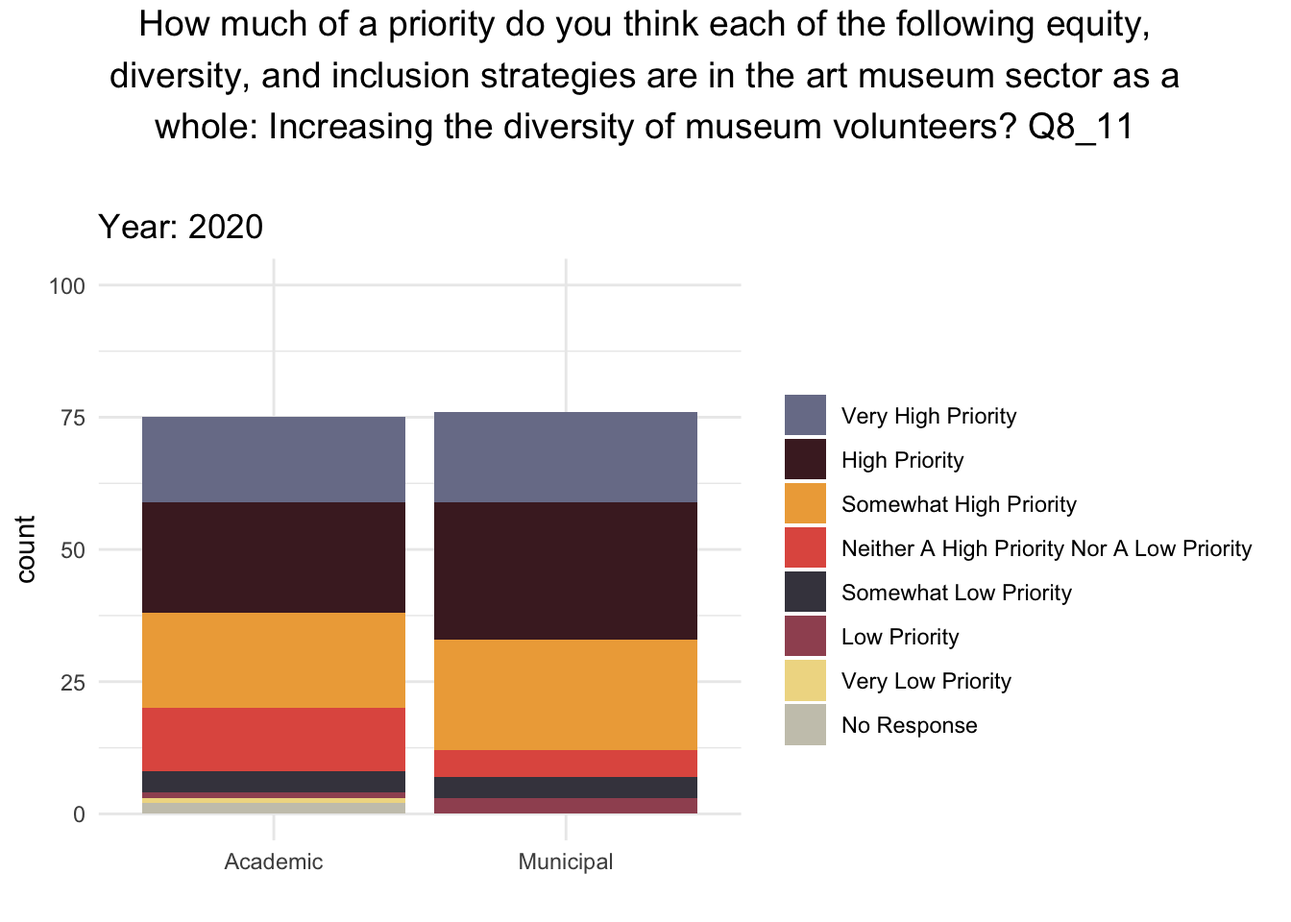
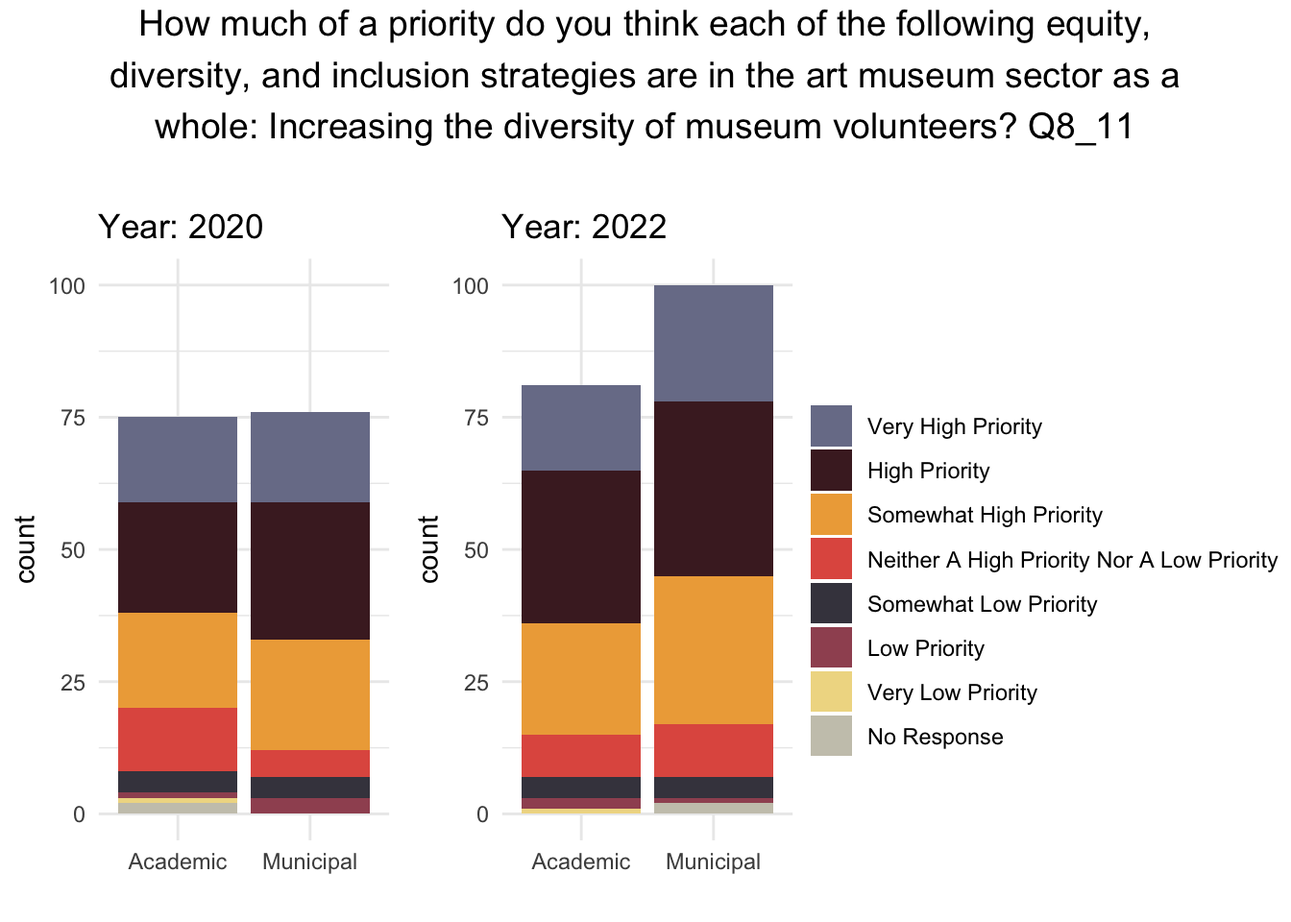
reformatting diversity plots--done now!

Changed region(s): [[0.0938, 0.2812, 1.0, 0.9688], [0.375, 0.2188, 0.5312, 0.2812], [0.3438, 0.2812, 0.375, 0.3125]]

diff --git a/docs/index.html b/docs/index.html
@@ -177,8 +177,8 @@ ul.task-list li input[type="checkbox"] {
 <h2 class="anchored" data-anchor-id="pca-analysis">PCA Analysis</h2>
 <div class="cell">
 <div class="cell-output-display">
-<div class="plotly html-widget html-fill-item" id="htmlwidget-5ad0f17f137d58f8f060" style="width:100%;height:464px;"></div>
-<script type="application/json" data-for="htmlwidget-5ad0f17f137d58f8f060">{"x":{"visdat":{"1668614c384fd":["function () ","plotlyVisDat"]},"cur_data":"1668614c384fd","attrs":{"1668614c384fd":{"x":{},"y":{},"mode":"markers","text":{},"hoverinfo":"text","marker":{"size":8,"opacity":1},"color":{},"colors":["#797d97","#cac7b9","#eeaa46","#4a2329","#e15b4f"],"alpha_stroke":1,"sizes":[10,100],"spans":[1,20],"type":"scatter"}},"layout":{"margin":{"b":40,"l":60,"t":25,"r":10},"title":{"text":"K-means Clustering on PCA Data","x":0.5,"xanchor":"center"},"xaxis":{"domain":[0,1],"automargin":true,"title":"PC1"},"yaxis":{"domain":[0,1],"automargin":true,"title":"PC2"},"legend":{"title":{"text":"Cluster"}},"hovermode":"closest","showlegend":true},"source":"A","config":{"modeBarButtonsToAdd":["hoverclosest","hovercompare"],"showSendToCloud":false},"data":[{"x":[1.9519669837468396,-0.34672951718763817,0.22867006025165865,1.3888820103977106,0.47893667713665039,-1.631635860011462,-0.23826189879536919,1.7821228840170011,-0.97540665248346758,0.43477365454045086,2.160290840545215,-0.12589699749730354,-2.0514690662157857,-0.69271084928894133,-0.068169590592236234,-2.3881764453225331,2.1763523705102252,-0.065012002914332678,0.32602127385675356,3.437594664475367,-0.28499385232099256,-0.9122061091808028,0.074477843692339549,0.63390348869985835,-0.89777349502524684,-1.3519287396442732,-0.90387715832019733,-1.2792696953575686,-0.4369157120150301,-1.7109417169914398,-0.10007386880636844,-0.091989849829529624,2.6369183552493745,1.1725482239351928,-0.69396323107238767,1.4287335118836426,-0.60716534530529787,-0.32965242105236542,0.32949752569067636,2.8887351896864009,0.35685268391167402,-1.1295295054848664,0.26081706879333483,0.22246898972410081,0.36382815139855468,-1.1462573944378258,0.037824082915974305,3.4115729823049752,-0.36310628756894542,-0.27873022883722676,-0.50642636824388443,0.28927361697365117],"y":[0.74742248445268256,1.4923206735003918,-0.91994422985294366,3.1197753494483136,1.3563185471339476,1.4986680541491204,1.9751080037334505,4.77139878841552,1.2498877044502206,0.64590801815596155,1.0575477025993407,0.3339151163710129,2.2032565462158553,2.9055073051589368,2.4713991288270067,1.7103967990660469,-0.46731120591713521,1.5334757821619649,1.5915025086749186,2.8938583623320011,1.6591684070258959,1.3967819693094785,1.8957491135744093,1.5364525945811942,-0.19531674983572078,0.71492746940552376,0.45617756909781149,1.8604530764820331,-0.50062351450272213,2.2427034978695932,2.5159168567193375,1.0522068061122356,3.1871480096704734,1.8801807717495747,2.0313770856793325,-0.2536495990129643,2.4221765278348339,1.1011719061949869,0.58359560011381717,3.2403459683341564,1.7152748639709736,0.92559545440133328,-1.0269779144760685,0.77964300334143,-0.74888213266847481,2.4563046566471942,1.5346750032688712,-0.25404765414689651,0.92368359384659926,0.5691870155792077,2.4821447731618269,2.1923072976478184],"mode":"markers","text":["ID: 3","ID: 7","ID: 11","ID: 12","ID: 16","ID: 17","ID: 20","ID: 23","ID: 24","ID: 30","ID: 33","ID: 38","ID: 42","ID: 45","ID: 48","ID: 55","ID: 58","ID: 62","ID: 65","ID: 66","ID: 71","ID: 73","ID: 75","ID: 80","ID: 84","ID: 87","ID: 94","ID: 95","ID: 97","ID: 99","ID: 100","ID: 104","ID: 107","ID: 108","ID: 111","ID: 112","ID: 115","ID: 117","ID: 118","ID: 119","ID: 124","ID: 136","ID: 140","ID: 141","ID: 145","ID: 147","ID: 152","ID: 153","ID: 156","ID: 164","ID: 177","ID: 180"],"hoverinfo":["text","text","text","text","text","text","text","text","text","text","text","text","text","text","text","text","text","text","text","text","text","text","text","text","text","text","text","text","text","text","text","text","text","text","text","text","text","text","text","text","text","text","text","text","text","text","text","text","text","text","text","text"],"marker":{"color":"rgba(121,125,151,1)","size":8,"opacity":1,"line":{"color":"rgba(121,125,151,1)"}},"type":"scatter","name":"1","textfont":{"color":"rgba(121,125,151,1)"},"error_y":{"color":"rgba(121,125,151,1)"},"error_x":{"color":"rgba(121,125,151,1)"},"line":{"color":"rgba(121,125,151,1)"},"xaxis":"x","yaxis":"y","frame":null},{"x":[0.60682477478487129,6.1597867816673402,1.532663615823159,3.0978107885122808,0.58843221608168239,1.8690412169865966,3.0922685676825816,2.5168266203129996,2.6313916515447482,4.2403480676353658,1.8139872130918999,0.94840825309821131,1.5654531888479541,2.112213335350738,4.1245700640749918,3.0825129371414914,2.2467584163499281,3.5344603739358784,3.2261037507716392,2.1057639031538327,2.6500963220426144,4.8721535818249606,2.6622738114152091,0.81339145011294589,2.7964904117546565,4.1246536581682482,4.1836676006554141,0.30014729274505042,2.7717771628469263,0.58084851640149404,3.4339591995878664,4.2260627644449,2.3872611026572343,0.77221224279213441,2.2688316160123705,4.2083435790701165,5.690526745241586],"y":[-1.2225237785036751,0.55363798306489576,2.5476962680762529,0.29339380693869616,0.30209182752737057,1.9165592140780907,0.49216222288222949,0.16805808198645539,-0.98658713167495404,1.0376886209793783,-1.9585949810558561,-0.78212881134347267,-0.65059269623512328,2.0418831621150009,-0.82151407967461287,0.72688250911641217,0.73220878711965565,1.1978604930971897,-0.33351565117700038,-0.072222832856582167,0.026473239561696216,0.093296771440084747,3.534625474176702,-0.51274377935091042,2.3142178458517551,1.1617312233105939,1.7300903884604659,-2.2231539445518695,-1.0090921479835422,0.27514425422446981,0.51534682906617713,0.582440976000972,1.7596722095429247,-1.6409742912704808,-0.51255394221134809,-1.4800675849099341,-0.24475176452356712],"mode":"markers","text":["ID: 1","ID: 6","ID: 9","ID: 10","ID: 22","ID: 34","ID: 39","ID: 44","ID: 46","ID: 52","ID: 59","ID: 68","ID: 74","ID: 76","ID: 79","ID: 81","ID: 85","ID: 92","ID: 101","ID: 103","ID: 109","ID: 110","ID: 116","ID: 121","ID: 128","ID: 138","ID: 139","ID: 142","ID: 144","ID: 148","ID: 150","ID: 151","ID: 155","ID: 158","ID: 159","ID: 169","ID: 179"],"hoverinfo":["text","text","text","text","text","text","text","text","text","text","text","text","text","text","text","text","text","text","text","text","text","text","text","text","text","text","text","text","text","text","text","text","text","text","text","text","text"],"marker":{"color":"rgba(202,199,185,1)","size":8,"opacity":1,"line":{"color":"rgba(202,199,185,1)"}},"type":"scatter","name":"2","textfont":{"color":"rgba(202,199,185,1)"},"error_y":{"color":"rgba(202,199,185,1)"},"error_x":{"color":"rgba(202,199,185,1)"},"line":{"color":"rgba(202,199,185,1)"},"xaxis":"x","yaxis":"y","frame":null},{"x":[-1.9711354743872325,-2.8562465749176575,-1.3012404373382547,-3.9282068407720585,-2.4572609348505394,-0.41490370784447245,-2.3037049767447551,0.11167601376614701,-1.760023185741777,-2.2329260352352764,-1.4794932678662605,-0.13318880655564569,-2.078356852251463,-0.75401512915603652,-3.2463436240978365,-1.9735038918329351,-0.54359791315650541,-3.6654743046885216,-0.93545164690782523,-1.2586946029741692,-4.0345116483095049,-4.3531040311024771,-3.8099021901159515,-1.1286545172884521,-0.6698549781348333,-4.2427427846927683,-4.3972320124075459,-2.4402202605496708,-2.487644318234731,-1.8082573299007163,-2.3687772238097122,-1.8031036081651521,-3.101168181134212,-2.1750493754392393,-1.4365999897759718,-4.1879558508134771,-2.5431375564136078,-1.8004581961732331,-0.55824876335040252,-4.2015917254672255,-3.5348872527911737,-2.8800899011774037,-2.0448290605570087,-1.2362472347285249,-1.8514176291997324,-1.0353740395819702,-1.2654742396344014,-4.027872156557839,-1.2133731653794202,-3.1978398370421246,-3.6398809629574918,-2.8147929559339042,-2.9223886410009188,-1.3506553313651235,-2.5281001026765018,-1.1971135767043795,-0.69186877082572551,-4.2478833001426617,-0.69734874467912522,-3.4941816658703213,-2.6950982010034275,-2.0423278213978517,-2.1570975299989557,-3.3740683280048995,-1.6399622512406147,0.51575583918526957,-0.28085602994846037,-2.4798927484412556,-0.76409996046896278,-1.9731463979193162,-2.2233790652234005,-0.19624099632028247,-2.3346762238373682,-1.5801727513662776,-0.9355998536474075,-2.0377804193188185,-0.8712673419493332,-1.9948283541255027,-2.9106341069528043,-4.7746349863726056,-0.58997120071491027,-0.041479668581613643],"y":[-0.57787056101989032,1.8911502444085913,-1.5696700115834028,-1.3865068994909828,1.465299169040563,-1.5360828697174282,-0.11913156402608727,-1.4299705361381148,0.8494690983219052,-2.1085538409099498,-1.7382303271157564,-1.5581156430714149,0.73027867433345639,-3.0732432369301597,-1.6291740269597443,1.1632270061285046,-1.3788060163646536,-0.28539654256194652,0.46658611897560076,0.55446922448665215,-0.012451530266400872,-0.12247917015603174,0.15514518940168026,-2.8409428525957741,-1.1679809861261654,0.15686951339380811,-0.71365023011996764,-0.043782187026531159,1.0967603051231154,-1.4426736915773704,0.46878020245948387,-2.7759950378566609,0.49939108199431431,-1.3666139511927069,1.0438592270085647,-0.39274753019223468,0.14107860155885193,0.080541076531973524,-1.6284644897870133,-0.44339581318678117,0.011912044981263654,0.97289622096312578,-0.48928780057962379,0.71643265662848665,-2.3173442976866125,-1.0077986780791768,-0.28908427672591558,-1.1400982540145663,0.10450934662155117,0.23494520769015387,-1.0283561445213494,1.1524093562731492,0.21126043065772693,0.33951282969553498,-2.064306735401757,0.36378520557650545,-0.60720469913983155,0.2904255420352525,-1.7950330939595509,-1.5671745182921195,-0.67660346869542953,-0.89943349516765347,0.71789772257288564,-1.3170548443890029,0.24132361204322805,-1.7558443528690888,-0.11269107215056724,-2.5347405157191956,-1.0223371734350066,0.45353334659552669,-2.1977108715959921,-1.0570474631661653,-1.8036913896942295,-0.27672300732370658,-0.089888273156349091,1.1404563561160757,-0.55321045214796027,-1.525580655208904,-1.1160918743746342,-0.29156362900901905,-0.26306034019189145,-0.82601875038594341],"mode":"markers","text":["ID: 2","ID: 4","ID: 8","ID: 13","ID: 14","ID: 15","ID: 21","ID: 25","ID: 26","ID: 27","ID: 28","ID: 29","ID: 31","ID: 32","ID: 35","ID: 36","ID: 37","ID: 41","ID: 43","ID: 47","ID: 49","ID: 50","ID: 51","ID: 53","ID: 54","ID: 56","ID: 57","ID: 60","ID: 61","ID: 63","ID: 64","ID: 67","ID: 69","ID: 70","ID: 72","ID: 77","ID: 78","ID: 82","ID: 83","ID: 86","ID: 88","ID: 89","ID: 90","ID: 91","ID: 93","ID: 98","ID: 102","ID: 105","ID: 106","ID: 114","ID: 120","ID: 122","ID: 125","ID: 126","ID: 127","ID: 129","ID: 130","ID: 131","ID: 133","ID: 134","ID: 135","ID: 137","ID: 146","ID: 149","ID: 154","ID: 157","ID: 160","ID: 161","ID: 162","ID: 163","ID: 165","ID: 166","ID: 167","ID: 168","ID: 170","ID: 172","ID: 173","ID: 174","ID: 175","ID: 176","ID: 178","ID: 181"],"hoverinfo":["text","text","text","text","text","text","text","text","text","text","text","text","text","text","text","text","text","text","text","text","text","text","text","text","text","text","text","text","text","text","text","text","text","text","text","text","text","text","text","text","text","text","text","text","text","text","text","text","text","text","text","text","text","text","text","text","text","text","text","text","text","text","text","text","text","text","text","text","text","text","text","text","text","text","text","text","text","text","text","text","text","text"],"marker":{"color":"rgba(238,170,70,1)","size":8,"opacity":1,"line":{"color":"rgba(238,170,70,1)"}},"type":"scatter","name":"3","textfont":{"color":"rgba(238,170,70,1)"},"error_y":{"color":"rgba(238,170,70,1)"},"error_x":{"color":"rgba(238,170,70,1)"},"line":{"color":"rgba(238,170,70,1)"},"xaxis":"x","yaxis":"y","frame":null},{"x":[5.28224837385737,4.8003809202713041,4.6193321084589209,6.3935806295873494,3.8409689287727797,6.9917359063374889,6.655697923565155,6.4104860301159556],"y":[-7.3633332480990212,-9.4938735015685154,-7.4293935087059522,-4.4325395651726387,-8.0657980038617563,-8.1868346683277586,-6.6516178282812168,-5.512100066304531],"mode":"markers","text":["ID: 5","ID: 19","ID: 40","ID: 96","ID: 113","ID: 123","ID: 132","ID: 143"],"hoverinfo":["text","text","text","text","text","text","text","text"],"marker":{"color":"rgba(74,35,41,1)","size":8,"opacity":1,"line":{"color":"rgba(74,35,41,1)"}},"type":"scatter","name":"4","textfont":{"color":"rgba(74,35,41,1)"},"error_y":{"color":"rgba(74,35,41,1)"},"error_x":{"color":"rgba(74,35,41,1)"},"line":{"color":"rgba(74,35,41,1)"},"xaxis":"x","yaxis":"y","frame":null},{"x":[11.232000682653949,9.0538361285100066],"y":[7.620719875414026,11.669068038996027],"mode":"markers","text":["ID: 18","ID: 171"],"hoverinfo":["text","text"],"marker":{"color":"rgba(225,91,79,1)","size":8,"opacity":1,"line":{"color":"rgba(225,91,79,1)"}},"type":"scatter","name":"5","textfont":{"color":"rgba(225,91,79,1)"},"error_y":{"color":"rgba(225,91,79,1)"},"error_x":{"color":"rgba(225,91,79,1)"},"line":{"color":"rgba(225,91,79,1)"},"xaxis":"x","yaxis":"y","frame":null}],"highlight":{"on":"plotly_click","persistent":false,"dynamic":false,"selectize":false,"opacityDim":0.20000000000000001,"selected":{"opacity":1},"debounce":0},"shinyEvents":["plotly_hover","plotly_click","plotly_selected","plotly_relayout","plotly_brushed","plotly_brushing","plotly_clickannotation","plotly_doubleclick","plotly_deselect","plotly_afterplot","plotly_sunburstclick"],"base_url":"https://plot.ly"},"evals":[],"jsHooks":[]}</script>
+<div class="plotly html-widget html-fill-item" id="htmlwidget-e82e4551d57efecc71e0" style="width:100%;height:464px;"></div>
+<script type="application/json" data-for="htmlwidget-e82e4551d57efecc71e0">{"x":{"visdat":{"183916d6ad600":["function () ","plotlyVisDat"]},"cur_data":"183916d6ad600","attrs":{"183916d6ad600":{"x":{},"y":{},"mode":"markers","text":{},"hoverinfo":"text","marker":{"size":8,"opacity":1},"color":{},"colors":["#797d97","#cac7b9","#eeaa46","#4a2329","#e15b4f"],"alpha_stroke":1,"sizes":[10,100],"spans":[1,20],"type":"scatter"}},"layout":{"margin":{"b":40,"l":60,"t":25,"r":10},"title":{"text":"K-means Clustering on PCA Data","x":0.5,"xanchor":"center"},"xaxis":{"domain":[0,1],"automargin":true,"title":"PC1"},"yaxis":{"domain":[0,1],"automargin":true,"title":"PC2"},"legend":{"title":{"text":"Cluster"}},"hovermode":"closest","showlegend":true},"source":"A","config":{"modeBarButtonsToAdd":["hoverclosest","hovercompare"],"showSendToCloud":false},"data":[{"x":[1.9519669837468396,-0.34672951718763817,0.22867006025165865,1.3888820103977106,0.47893667713665039,-1.631635860011462,-0.23826189879536919,1.7821228840170011,-0.97540665248346758,0.43477365454045086,2.160290840545215,-0.12589699749730354,-2.0514690662157857,-0.69271084928894133,-0.068169590592236234,-2.3881764453225331,2.1763523705102252,-0.065012002914332678,0.32602127385675356,3.437594664475367,-0.28499385232099256,-0.9122061091808028,0.074477843692339549,0.63390348869985835,-0.89777349502524684,-1.3519287396442732,-0.90387715832019733,-1.2792696953575686,-0.4369157120150301,-1.7109417169914398,-0.10007386880636844,-0.091989849829529624,2.6369183552493745,1.1725482239351928,-0.69396323107238767,1.4287335118836426,-0.60716534530529787,-0.32965242105236542,0.32949752569067636,2.8887351896864009,0.35685268391167402,-1.1295295054848664,0.26081706879333483,0.22246898972410081,0.36382815139855468,-1.1462573944378258,0.037824082915974305,3.4115729823049752,-0.36310628756894542,-0.27873022883722676,-0.50642636824388443,0.28927361697365117],"y":[0.74742248445268256,1.4923206735003918,-0.91994422985294366,3.1197753494483136,1.3563185471339476,1.4986680541491204,1.9751080037334505,4.77139878841552,1.2498877044502206,0.64590801815596155,1.0575477025993407,0.3339151163710129,2.2032565462158553,2.9055073051589368,2.4713991288270067,1.7103967990660469,-0.46731120591713521,1.5334757821619649,1.5915025086749186,2.8938583623320011,1.6591684070258959,1.3967819693094785,1.8957491135744093,1.5364525945811942,-0.19531674983572078,0.71492746940552376,0.45617756909781149,1.8604530764820331,-0.50062351450272213,2.2427034978695932,2.5159168567193375,1.0522068061122356,3.1871480096704734,1.8801807717495747,2.0313770856793325,-0.2536495990129643,2.4221765278348339,1.1011719061949869,0.58359560011381717,3.2403459683341564,1.7152748639709736,0.92559545440133328,-1.0269779144760685,0.77964300334143,-0.74888213266847481,2.4563046566471942,1.5346750032688712,-0.25404765414689651,0.92368359384659926,0.5691870155792077,2.4821447731618269,2.1923072976478184],"mode":"markers","text":["ID: 3","ID: 7","ID: 11","ID: 12","ID: 16","ID: 17","ID: 20","ID: 23","ID: 24","ID: 30","ID: 33","ID: 38","ID: 42","ID: 45","ID: 48","ID: 55","ID: 58","ID: 62","ID: 65","ID: 66","ID: 71","ID: 73","ID: 75","ID: 80","ID: 84","ID: 87","ID: 94","ID: 95","ID: 97","ID: 99","ID: 100","ID: 104","ID: 107","ID: 108","ID: 111","ID: 112","ID: 115","ID: 117","ID: 118","ID: 119","ID: 124","ID: 136","ID: 140","ID: 141","ID: 145","ID: 147","ID: 152","ID: 153","ID: 156","ID: 164","ID: 177","ID: 180"],"hoverinfo":["text","text","text","text","text","text","text","text","text","text","text","text","text","text","text","text","text","text","text","text","text","text","text","text","text","text","text","text","text","text","text","text","text","text","text","text","text","text","text","text","text","text","text","text","text","text","text","text","text","text","text","text"],"marker":{"color":"rgba(121,125,151,1)","size":8,"opacity":1,"line":{"color":"rgba(121,125,151,1)"}},"type":"scatter","name":"1","textfont":{"color":"rgba(121,125,151,1)"},"error_y":{"color":"rgba(121,125,151,1)"},"error_x":{"color":"rgba(121,125,151,1)"},"line":{"color":"rgba(121,125,151,1)"},"xaxis":"x","yaxis":"y","frame":null},{"x":[0.60682477478487129,6.1597867816673402,1.532663615823159,3.0978107885122808,0.58843221608168239,1.8690412169865966,3.0922685676825816,2.5168266203129996,2.6313916515447482,4.2403480676353658,1.8139872130918999,0.94840825309821131,1.5654531888479541,2.112213335350738,4.1245700640749918,3.0825129371414914,2.2467584163499281,3.5344603739358784,3.2261037507716392,2.1057639031538327,2.6500963220426144,4.8721535818249606,2.6622738114152091,0.81339145011294589,2.7964904117546565,4.1246536581682482,4.1836676006554141,0.30014729274505042,2.7717771628469263,0.58084851640149404,3.4339591995878664,4.2260627644449,2.3872611026572343,0.77221224279213441,2.2688316160123705,4.2083435790701165,5.690526745241586],"y":[-1.2225237785036751,0.55363798306489576,2.5476962680762529,0.29339380693869616,0.30209182752737057,1.9165592140780907,0.49216222288222949,0.16805808198645539,-0.98658713167495404,1.0376886209793783,-1.9585949810558561,-0.78212881134347267,-0.65059269623512328,2.0418831621150009,-0.82151407967461287,0.72688250911641217,0.73220878711965565,1.1978604930971897,-0.33351565117700038,-0.072222832856582167,0.026473239561696216,0.093296771440084747,3.534625474176702,-0.51274377935091042,2.3142178458517551,1.1617312233105939,1.7300903884604659,-2.2231539445518695,-1.0090921479835422,0.27514425422446981,0.51534682906617713,0.582440976000972,1.7596722095429247,-1.6409742912704808,-0.51255394221134809,-1.4800675849099341,-0.24475176452356712],"mode":"markers","text":["ID: 1","ID: 6","ID: 9","ID: 10","ID: 22","ID: 34","ID: 39","ID: 44","ID: 46","ID: 52","ID: 59","ID: 68","ID: 74","ID: 76","ID: 79","ID: 81","ID: 85","ID: 92","ID: 101","ID: 103","ID: 109","ID: 110","ID: 116","ID: 121","ID: 128","ID: 138","ID: 139","ID: 142","ID: 144","ID: 148","ID: 150","ID: 151","ID: 155","ID: 158","ID: 159","ID: 169","ID: 179"],"hoverinfo":["text","text","text","text","text","text","text","text","text","text","text","text","text","text","text","text","text","text","text","text","text","text","text","text","text","text","text","text","text","text","text","text","text","text","text","text","text"],"marker":{"color":"rgba(202,199,185,1)","size":8,"opacity":1,"line":{"color":"rgba(202,199,185,1)"}},"type":"scatter","name":"2","textfont":{"color":"rgba(202,199,185,1)"},"error_y":{"color":"rgba(202,199,185,1)"},"error_x":{"color":"rgba(202,199,185,1)"},"line":{"color":"rgba(202,199,185,1)"},"xaxis":"x","yaxis":"y","frame":null},{"x":[-1.9711354743872325,-2.8562465749176575,-1.3012404373382547,-3.9282068407720585,-2.4572609348505394,-0.41490370784447245,-2.3037049767447551,0.11167601376614701,-1.760023185741777,-2.2329260352352764,-1.4794932678662605,-0.13318880655564569,-2.078356852251463,-0.75401512915603652,-3.2463436240978365,-1.9735038918329351,-0.54359791315650541,-3.6654743046885216,-0.93545164690782523,-1.2586946029741692,-4.0345116483095049,-4.3531040311024771,-3.8099021901159515,-1.1286545172884521,-0.6698549781348333,-4.2427427846927683,-4.3972320124075459,-2.4402202605496708,-2.487644318234731,-1.8082573299007163,-2.3687772238097122,-1.8031036081651521,-3.101168181134212,-2.1750493754392393,-1.4365999897759718,-4.1879558508134771,-2.5431375564136078,-1.8004581961732331,-0.55824876335040252,-4.2015917254672255,-3.5348872527911737,-2.8800899011774037,-2.0448290605570087,-1.2362472347285249,-1.8514176291997324,-1.0353740395819702,-1.2654742396344014,-4.027872156557839,-1.2133731653794202,-3.1978398370421246,-3.6398809629574918,-2.8147929559339042,-2.9223886410009188,-1.3506553313651235,-2.5281001026765018,-1.1971135767043795,-0.69186877082572551,-4.2478833001426617,-0.69734874467912522,-3.4941816658703213,-2.6950982010034275,-2.0423278213978517,-2.1570975299989557,-3.3740683280048995,-1.6399622512406147,0.51575583918526957,-0.28085602994846037,-2.4798927484412556,-0.76409996046896278,-1.9731463979193162,-2.2233790652234005,-0.19624099632028247,-2.3346762238373682,-1.5801727513662776,-0.9355998536474075,-2.0377804193188185,-0.8712673419493332,-1.9948283541255027,-2.9106341069528043,-4.7746349863726056,-0.58997120071491027,-0.041479668581613643],"y":[-0.57787056101989032,1.8911502444085913,-1.5696700115834028,-1.3865068994909828,1.465299169040563,-1.5360828697174282,-0.11913156402608727,-1.4299705361381148,0.8494690983219052,-2.1085538409099498,-1.7382303271157564,-1.5581156430714149,0.73027867433345639,-3.0732432369301597,-1.6291740269597443,1.1632270061285046,-1.3788060163646536,-0.28539654256194652,0.46658611897560076,0.55446922448665215,-0.012451530266400872,-0.12247917015603174,0.15514518940168026,-2.8409428525957741,-1.1679809861261654,0.15686951339380811,-0.71365023011996764,-0.043782187026531159,1.0967603051231154,-1.4426736915773704,0.46878020245948387,-2.7759950378566609,0.49939108199431431,-1.3666139511927069,1.0438592270085647,-0.39274753019223468,0.14107860155885193,0.080541076531973524,-1.6284644897870133,-0.44339581318678117,0.011912044981263654,0.97289622096312578,-0.48928780057962379,0.71643265662848665,-2.3173442976866125,-1.0077986780791768,-0.28908427672591558,-1.1400982540145663,0.10450934662155117,0.23494520769015387,-1.0283561445213494,1.1524093562731492,0.21126043065772693,0.33951282969553498,-2.064306735401757,0.36378520557650545,-0.60720469913983155,0.2904255420352525,-1.7950330939595509,-1.5671745182921195,-0.67660346869542953,-0.89943349516765347,0.71789772257288564,-1.3170548443890029,0.24132361204322805,-1.7558443528690888,-0.11269107215056724,-2.5347405157191956,-1.0223371734350066,0.45353334659552669,-2.1977108715959921,-1.0570474631661653,-1.8036913896942295,-0.27672300732370658,-0.089888273156349091,1.1404563561160757,-0.55321045214796027,-1.525580655208904,-1.1160918743746342,-0.29156362900901905,-0.26306034019189145,-0.82601875038594341],"mode":"markers","text":["ID: 2","ID: 4","ID: 8","ID: 13","ID: 14","ID: 15","ID: 21","ID: 25","ID: 26","ID: 27","ID: 28","ID: 29","ID: 31","ID: 32","ID: 35","ID: 36","ID: 37","ID: 41","ID: 43","ID: 47","ID: 49","ID: 50","ID: 51","ID: 53","ID: 54","ID: 56","ID: 57","ID: 60","ID: 61","ID: 63","ID: 64","ID: 67","ID: 69","ID: 70","ID: 72","ID: 77","ID: 78","ID: 82","ID: 83","ID: 86","ID: 88","ID: 89","ID: 90","ID: 91","ID: 93","ID: 98","ID: 102","ID: 105","ID: 106","ID: 114","ID: 120","ID: 122","ID: 125","ID: 126","ID: 127","ID: 129","ID: 130","ID: 131","ID: 133","ID: 134","ID: 135","ID: 137","ID: 146","ID: 149","ID: 154","ID: 157","ID: 160","ID: 161","ID: 162","ID: 163","ID: 165","ID: 166","ID: 167","ID: 168","ID: 170","ID: 172","ID: 173","ID: 174","ID: 175","ID: 176","ID: 178","ID: 181"],"hoverinfo":["text","text","text","text","text","text","text","text","text","text","text","text","text","text","text","text","text","text","text","text","text","text","text","text","text","text","text","text","text","text","text","text","text","text","text","text","text","text","text","text","text","text","text","text","text","text","text","text","text","text","text","text","text","text","text","text","text","text","text","text","text","text","text","text","text","text","text","text","text","text","text","text","text","text","text","text","text","text","text","text","text","text"],"marker":{"color":"rgba(238,170,70,1)","size":8,"opacity":1,"line":{"color":"rgba(238,170,70,1)"}},"type":"scatter","name":"3","textfont":{"color":"rgba(238,170,70,1)"},"error_y":{"color":"rgba(238,170,70,1)"},"error_x":{"color":"rgba(238,170,70,1)"},"line":{"color":"rgba(238,170,70,1)"},"xaxis":"x","yaxis":"y","frame":null},{"x":[5.28224837385737,4.8003809202713041,4.6193321084589209,6.3935806295873494,3.8409689287727797,6.9917359063374889,6.655697923565155,6.4104860301159556],"y":[-7.3633332480990212,-9.4938735015685154,-7.4293935087059522,-4.4325395651726387,-8.0657980038617563,-8.1868346683277586,-6.6516178282812168,-5.512100066304531],"mode":"markers","text":["ID: 5","ID: 19","ID: 40","ID: 96","ID: 113","ID: 123","ID: 132","ID: 143"],"hoverinfo":["text","text","text","text","text","text","text","text"],"marker":{"color":"rgba(74,35,41,1)","size":8,"opacity":1,"line":{"color":"rgba(74,35,41,1)"}},"type":"scatter","name":"4","textfont":{"color":"rgba(74,35,41,1)"},"error_y":{"color":"rgba(74,35,41,1)"},"error_x":{"color":"rgba(74,35,41,1)"},"line":{"color":"rgba(74,35,41,1)"},"xaxis":"x","yaxis":"y","frame":null},{"x":[11.232000682653949,9.0538361285100066],"y":[7.620719875414026,11.669068038996027],"mode":"markers","text":["ID: 18","ID: 171"],"hoverinfo":["text","text"],"marker":{"color":"rgba(225,91,79,1)","size":8,"opacity":1,"line":{"color":"rgba(225,91,79,1)"}},"type":"scatter","name":"5","textfont":{"color":"rgba(225,91,79,1)"},"error_y":{"color":"rgba(225,91,79,1)"},"error_x":{"color":"rgba(225,91,79,1)"},"line":{"color":"rgba(225,91,79,1)"},"xaxis":"x","yaxis":"y","frame":null}],"highlight":{"on":"plotly_click","persistent":false,"dynamic":false,"selectize":false,"opacityDim":0.20000000000000001,"selected":{"opacity":1},"debounce":0},"shinyEvents":["plotly_hover","plotly_click","plotly_selected","plotly_relayout","plotly_brushed","plotly_brushing","plotly_clickannotation","plotly_doubleclick","plotly_deselect","plotly_afterplot","plotly_sunburstclick"],"base_url":"https://plot.ly"},"evals":[],"jsHooks":[]}</script>
 </div>
 </div>
 <p>To initially explore the structure and similarities among variables and responders, we turned to unsupervised learning techniques popular in statistical modeling: Principal Component Analysis (PCA) and K-Means Clustering. We chose Dimension Reduction techniques because of the large number of survey questions we had. These techniques are excellent at identifying patterns and important features in large datasets. The goal of these preliminary plots was to understand patterns in responses and the overall influence of different survey questions in creating such patterns. Our findings would then inform which variables we decided to take a closer look at and patterns to look for between variable responses. First, we performed principal component analysis on our 2022 data, which essentially transforms the original survey data into a set of new summary variables that contain the main points of the data. These summary variables are called principal components, as you’ll notice on the x and y axis labels of the plot.</p>
